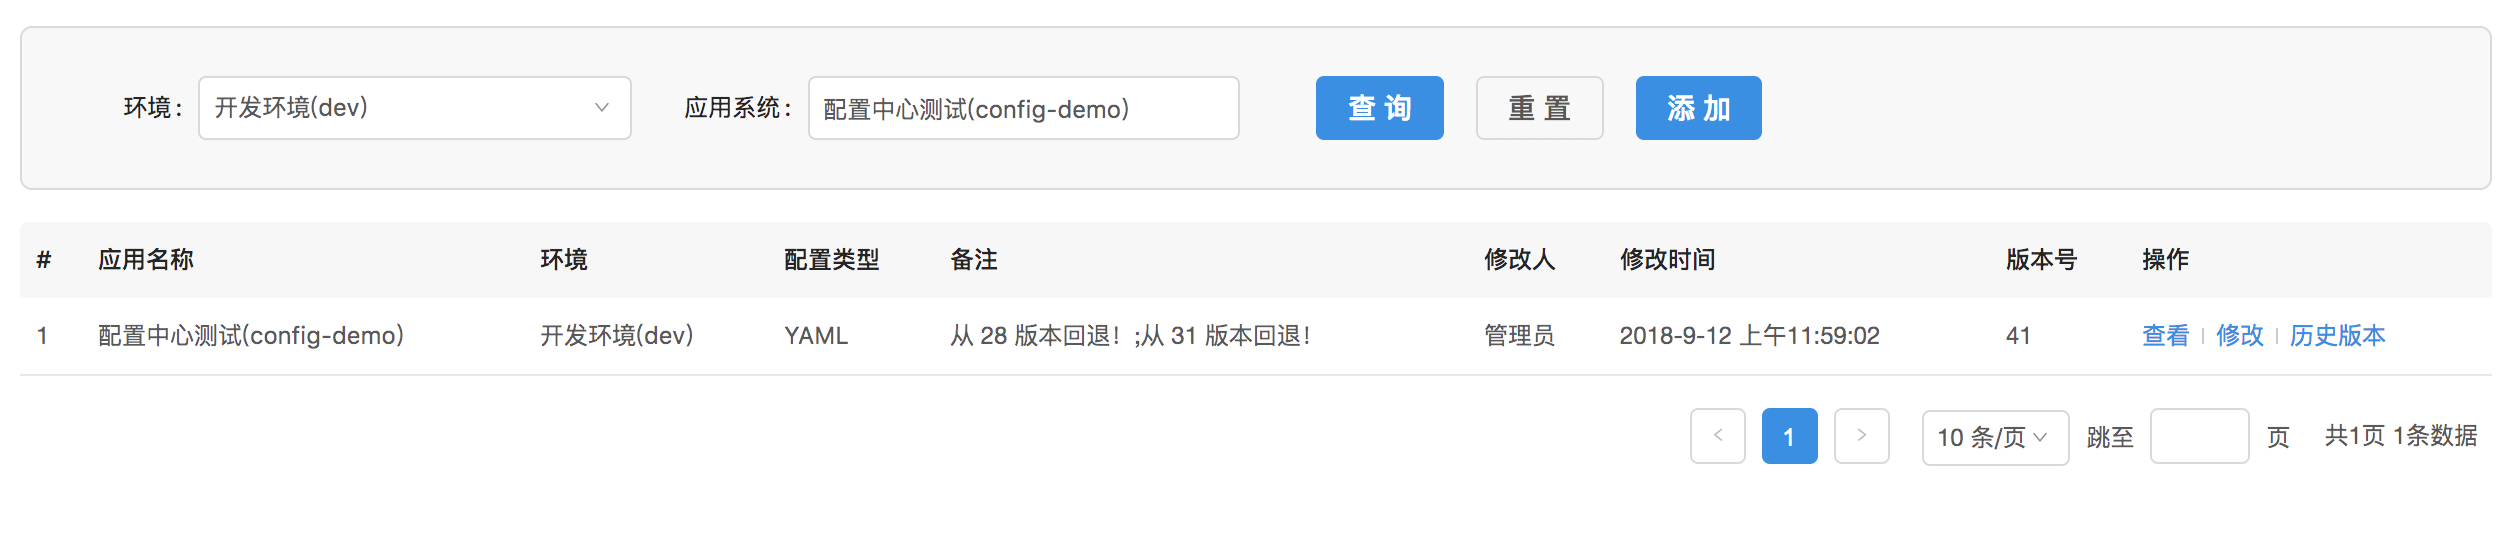
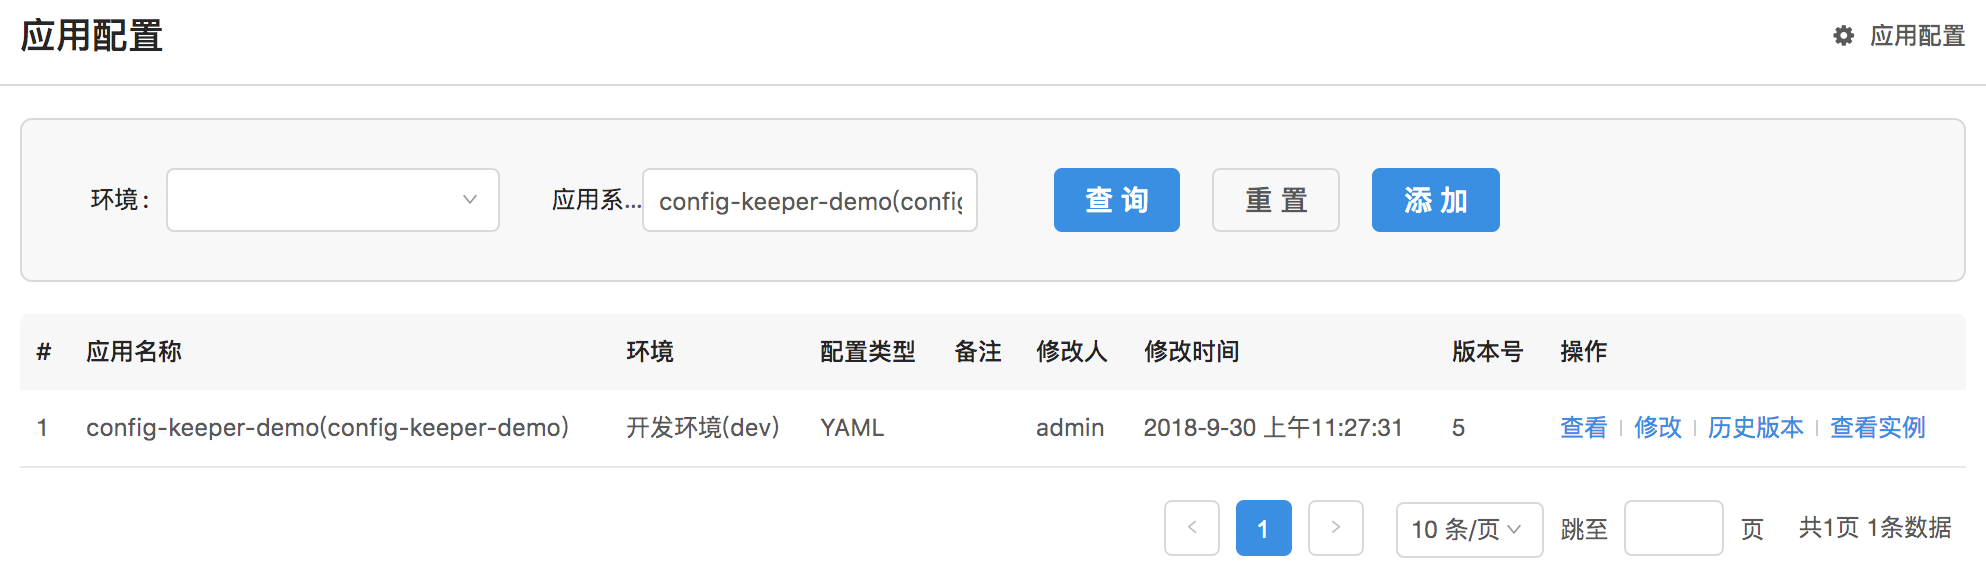
suixingpay-config-server/pom.xml增加前端构建功能；增加批量刷新使用说明；删除没有用的配置文件

diff --git a/README.md b/README.md
@@ -104,9 +104,13 @@ suixingpay-config-client 是基于spring-cloud开发的，所以使用方法与s
 关于@Value、@ConfigurationProperties及@RefreshScope的使用就不再一一举例子，更多内容可以参考Spring 官方文档。
 ### 4.3 支持灰度发布
 
-为了支持灰度发布，suixingpay-config-client并实现没有自动刷新配置的功能，而是通过使用Spring cloud提供的refresh endpoint进行手动刷新，因为当配置变更后，没有经过验证就将最新配置推送给所有应用，风险是非常之大的。正确的做法是，修改配置内容后，先将最新配置内容刷新到一个应用实例进行验证，验证无误后，再刷新剩余的应用。
+为了支持灰度发布，suixingpay-config-client并实现没有自动刷新配置的功能，而是通过使用Spring cloud提供的refresh endpoint进行手动刷新，因为当配置变更后，没有经过验证就将最新配置推送给所有应用，风险是非常之大的。正确的做法是，修改配置内容后，先将最新配置内容刷新到其中一个应用实例进行验证，验证无误后，再刷新剩余的应用。
 
-现有版本还没有方便刷新配置的相关工具，需要借助curl或postmain等工具来完成，我们正在开发相应的功能来提升这块的用户体验，大家可以关注github中的更新。
+需要除了可以借助curl或postmain等工具进行刷新配置之外，还可以使用配置中心的刷新功能，通过应用配置列表页中的“查看实例” 链接进入下面页面：
+
+![查看实例信息及刷新功能](doc/applicationInstance.png)
+
+此页面可以查看应用各个实例中的配置版本号，以确认版本是否最新，也可以通过刷新按钮批量刷新选中实例的配置。
 
 ### 4.4 支持客户端缓存，即使配置中心服务不可用，也不会影响应用的启动
 
@@ -117,3 +121,7 @@ suixingpay-config-client 是基于spring-cloud开发的，所以使用方法与s
 Spring 生态功能非常丰富，为我们解决了非常多棘手问题，但很多东西要进行本地化开发后才能更好的使用。此配置中心使用了不少开源技术，给我们带来了不少便利，希望通过此开源项目回馈社区，为开源社区贡献绵薄之力。希望了解随行付更多开源项目请查看[https://github.com/sxfad](https://github.com/sxfad)和[https://gitee.com/sxfad](https://gitee.com/sxfad)。
 
 ConfigKeeper交流群:478814745
+
+[服务端使用说明](suixingpay-config-server/README.md)
+
+[客户端使用说明](suixingpay-config-client/README.md)

diff --git a/suixingpay-config-server/README.md b/suixingpay-config-server/README.md
@@ -14,25 +14,43 @@
 2. global_config, global_config_log, application_config, application_config_log等表，除超级管理员外，需要分配相应的权限才能进行管理；
 
 
-## 三. 服务端(suixingpay-config-server)部署
+## 三. 服务端(suixingpay-config-server)部署步骤
 
-### 1. 修改配置文件
+### 1. 初始化数据库
 
-需要根据实际情况修改：
-application.yml
+### 2. 准备好Redis环境
 
-### 1. 本地开发环境启动
+### 3. 修改配置文件
+
+需要根据实际情况修改或增加：application-xxx.yml 文件(xxx指spring profile)
+
+### 4. 构建
+
+
+服务端使用前后端分离架构，为了降低学习成本，建议大家将前端静态资源文件（suixingpay-config-front中的文件）使用gradle assemble 或mvn package，将前端静态页面也打进可执行的jar包中。
+
+
+通过下面命令进行构建打包：
+
+gradle:
+
+    gradle assemble
+    
+maven:
+
+    mvn clean package -Dmaven.test.skip=true
+
+### 5. 运行方法
+
+#### 1. 本地开发环境启动
 使用gradle 命令启动：
 
-    gradle bootRun  
+    gradle bootRun 
  
 访问方式：http://localhost:8080  
 登陆用户名密码： admin 123456
 
-### 2. 不同服务器环境启动
-上面通过bootstrap-dev.yml、bootstrap-test.yml、bootstrap-rc.yml、bootstrap-prod.yml等文件来切换不同环境的配置，但需要通过设置spring.profiles.active来激活。
-
-激活Spring boot profile的方式很多，我们统一使用jvm参数指定：  
-java -jar xxx.jar --profile=test	
-java -jar xxx.jar --profile=rc  
-java -jar xxx.jar --profile=prod
+#### 2. 通过jar包进行启动，并指定服务器运行环境
+使用jvm参数激活Spring boot profile：（比如：dev 为开发环境；prod 为生产环境）
+java -jar config.jar --profile=dev 
+java -jar config.jar --profile=prod
